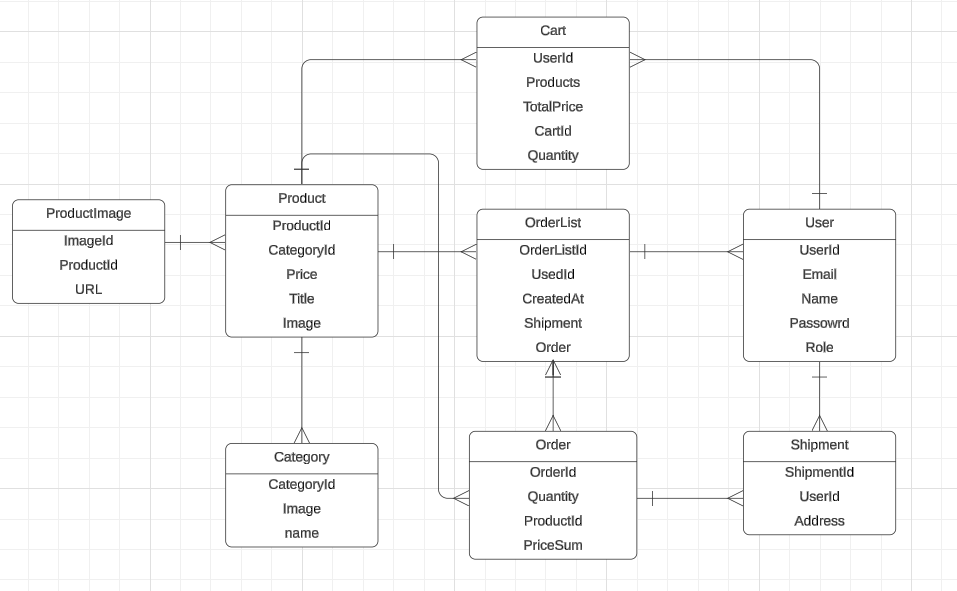
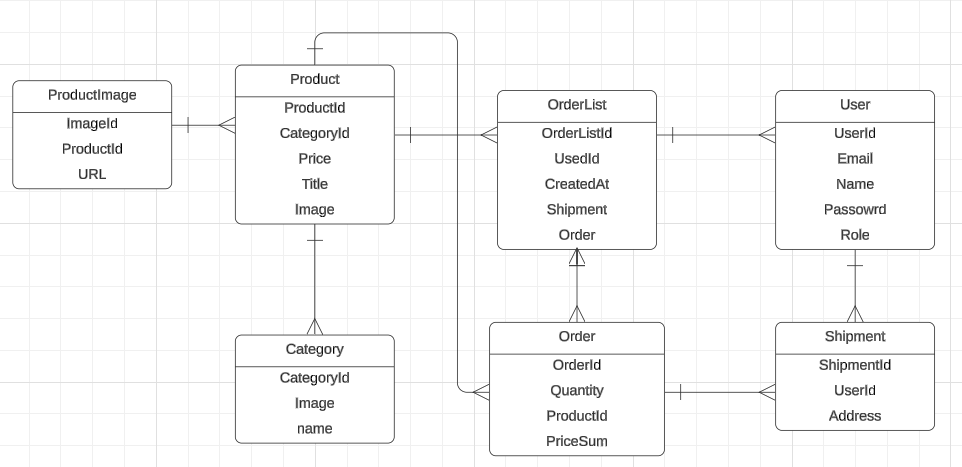
erd changed, yaml added

diff --git a/src/app.ts b/src/app.ts
@@ -2,7 +2,6 @@ import express from "express";
 import dotenv from "dotenv";
 import productsRouter from "./routers/productsRouter";
 import usersRouter from "./routers/usersRouter";
-import cartRouter from "./routers/cartRouter";
 import categoryRouter from "./routers/categoryRouter";
 
 dotenv.config()
@@ -13,7 +12,6 @@ const app = express();
 app.use(express.json());
 app.use("/api/v1/products", productsRouter);
 app.use("/api/v1/users", usersRouter);
-app.use("/api/v1/cart", cartRouter)
 app.use("/api/v1/categories", categoryRouter);
 
 app.listen(process.env.PORT, () => {

diff --git a/src/misc/types.ts b/src/misc/types.ts
@@ -18,11 +18,6 @@ export type Product = {
    size: Size;
 }
 
-export type Cart = {
-   items: Product[];
-   quantity: number;
-}
-
 export type User = {
    id: string;
    firstName: string;
